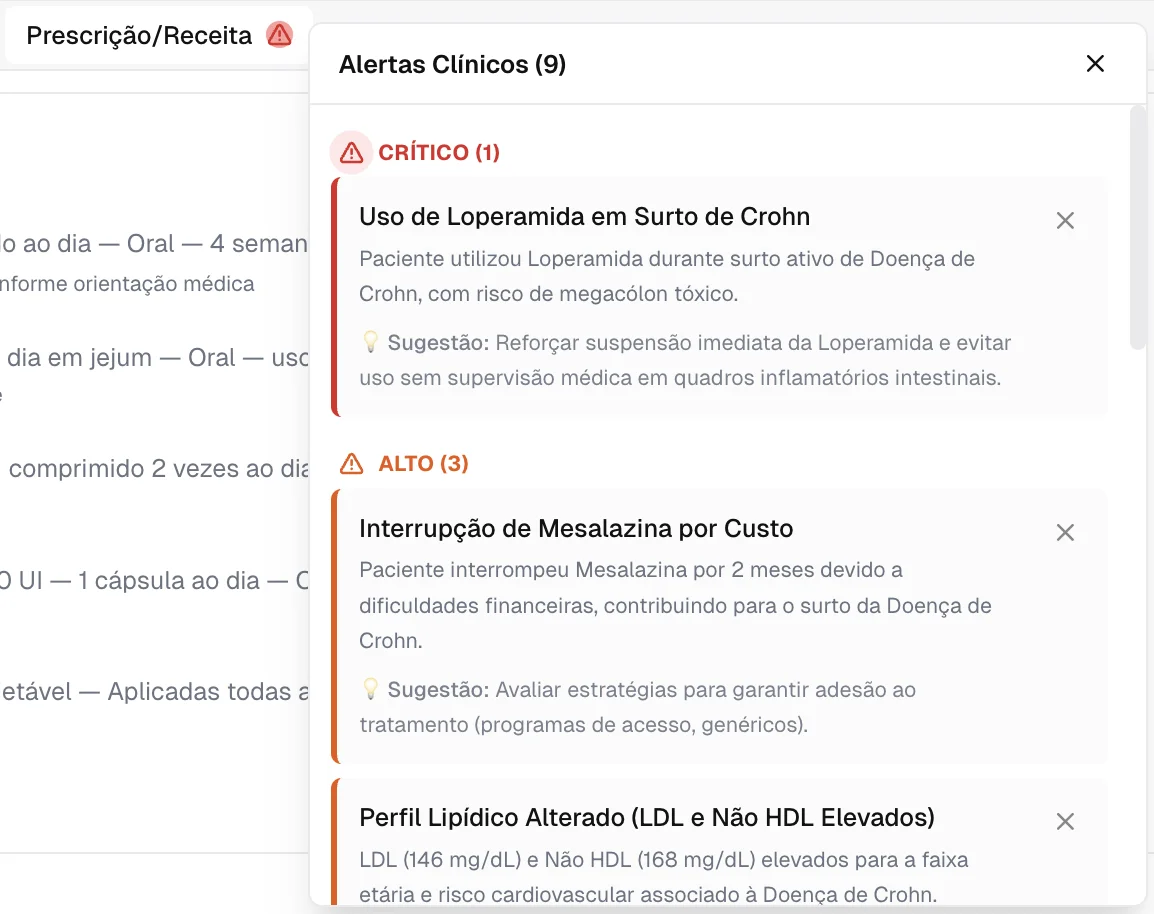
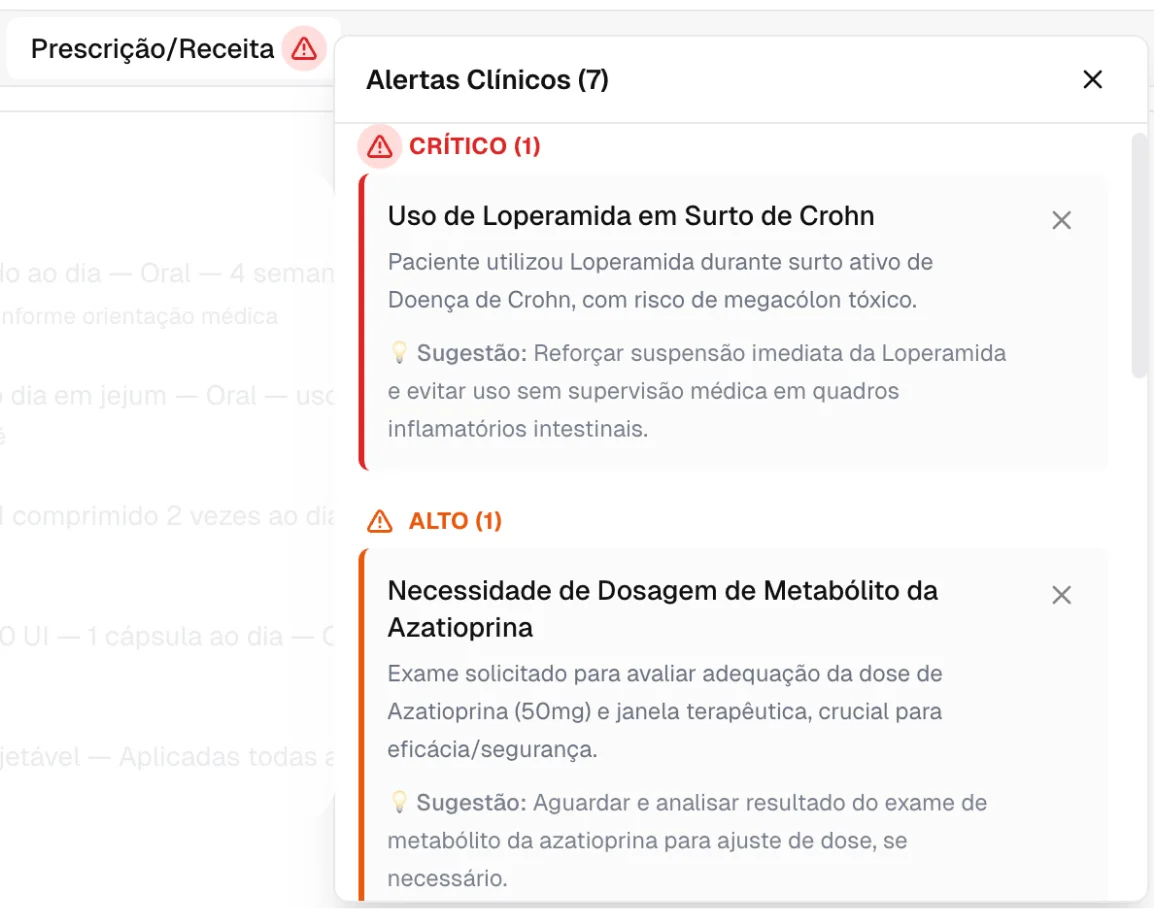
feat: finalize official landing page polish

diff --git a/src/app/page.tsx b/src/app/page.tsx
@@ -103,7 +103,7 @@ const features: Feature[] = [
     image: "/landing/screenshots/mobile-app-recording.webp",
     tag: "Apps mobile",
     badge: "Disponível",
-    alt: "Aplicativo MedWiser no celular mostrando gravação de consulta na interface mobile",
+    alt: "Aplicativo MedWiser no celular — telas de login, lista de consultas, gravação e sincronização",
     imageClass: "object-contain",
     featured: true,
   },
@@ -360,7 +360,7 @@ export default function Home() {
 
           {/* Featured cards — full width */}
           <RevealGroup
-            className="mt-12 flex flex-col gap-6 sm:gap-8"
+            className="mt-8 flex flex-col gap-4 sm:gap-6"
             stagger={0.07}
             delay={0.1}
           >
@@ -369,7 +369,7 @@ export default function Home() {
               .map((feature) => (
                 <RevealItem key={feature.title} variant="fade-up">
                   <div className="hover-lift flex flex-col overflow-hidden rounded-card border border-border/60 bg-card shadow-card lg:flex-row">
-                    <div className="flex flex-col justify-center p-6 sm:p-8 lg:w-1/2">
+                    <div className="flex flex-col justify-center p-5 sm:p-6 lg:w-3/5">
                       <div className="flex items-center gap-2">
                         <span className="text-xs font-semibold uppercase tracking-[0.2em] text-primary">
                           {feature.tag}
@@ -380,23 +380,23 @@ export default function Home() {
                           </span>
                         )}
                       </div>
-                      <h3 className="mt-4 font-display text-2xl font-semibold sm:text-3xl">
+                      <h3 className="mt-3 font-display text-xl font-semibold sm:text-2xl">
                         {feature.title}
                       </h3>
-                      <p className="mt-3 text-sm text-muted-foreground sm:text-base">
+                      <p className="mt-2 text-sm text-muted-foreground">
                         {feature.description}
                       </p>
                     </div>
                     {feature.image && (
-                      <div className="border-t border-border/60 bg-surface p-4 lg:w-1/2 lg:border-l lg:border-t-0">
-                        <div className="overflow-hidden rounded-xl">
+                      <div className="flex items-center justify-center border-t border-border/60 bg-surface p-3 lg:w-2/5 lg:border-l lg:border-t-0">
+                        <div className="flex items-center justify-center overflow-hidden rounded-xl">
                           <Image
                             src={feature.image}
                             alt={feature.alt ?? `${feature.title} — MedWiser`}
-                            width={1200}
-                            height={800}
-                            sizes="(max-width: 1024px) 100vw, 50vw"
-                            className={`h-auto w-full ${feature.imageClass ?? "object-cover"}`}
+                            width={800}
+                            height={533}
+                            sizes="(max-width: 1024px) 100vw, 40vw"
+                            className={`mx-auto max-h-[200px] w-auto ${feature.imageClass ?? "object-contain"}`}
                           />
                         </div>
                       </div>

diff --git a/src/components/landing/PricingSection.tsx b/src/components/landing/PricingSection.tsx
@@ -35,7 +35,6 @@ const features = [
 
 const monthlyPrice = 229;
 const yearlyPrice = 199;
-const yearlyTotal = yearlyPrice * 12;
 const savingsPercent = Math.round(
   ((monthlyPrice - yearlyPrice) / monthlyPrice) * 100,
 );
@@ -139,15 +138,15 @@ export function PricingSection() {
               </div>
             </div>
 
-            <div className="mt-6 text-center">
-              <div className="text-xs font-medium uppercase tracking-wider text-muted-foreground">
-                Depois
+            <div className="mt-4 text-center">
+              <div className="text-[11px] font-medium text-muted-foreground/70">
+                Após o teste gratuito
               </div>
-              <div className="mt-2 flex items-baseline justify-center gap-2">
+              <div className="mt-1 flex items-baseline justify-center gap-1.5">
                 <AnimatePresence mode="popLayout" initial={false}>
                   <motion.span
                     key={price}
-                    className="font-display text-4xl font-bold text-foreground sm:text-5xl"
+                    className="text-lg font-semibold text-muted-foreground"
                     initial={{ opacity: 0, filter: "blur(3px)", y: 4 }}
                     animate={{ opacity: 1, filter: "blur(0px)", y: 0 }}
                     exit={{ opacity: 0, filter: "blur(3px)", y: -4 }}
@@ -156,28 +155,14 @@ export function PricingSection() {
                     R$ {price}
                   </motion.span>
                 </AnimatePresence>
-                <span className="text-sm text-muted-foreground">/mês</span>
+                <span className="text-xs text-muted-foreground/60">/mês</span>
               </div>
-              <AnimatePresence mode="wait" initial={false}>
-                <motion.p
-                  key={billingCycle}
-                  className="mt-2 text-xs text-muted-foreground"
-                  initial={{ opacity: 0 }}
-                  animate={{ opacity: 1 }}
-                  exit={{ opacity: 0 }}
-                  transition={{ duration: 0.18, ease: EASE_OUT }}
-                >
-                  {billingCycle === "yearly"
-                    ? `R$ ${yearlyTotal.toLocaleString("pt-BR")} cobrados uma vez por ano`
-                    : "Cobrado mensalmente"}
-                </motion.p>
-              </AnimatePresence>
 
               <AnimatePresence initial={false}>
                 {billingCycle === "yearly" && (
                   <motion.div
                     key="yearly-savings"
-                    className="mt-3 inline-flex items-center gap-1.5 rounded-full bg-success/10 px-3 py-1 text-xs font-semibold text-success"
+                    className="mt-1.5 inline-flex items-center gap-1.5 rounded-full bg-success/10 px-3 py-1 text-xs font-semibold text-success"
                     initial={{ opacity: 0, scale: 0.95 }}
                     animate={{ opacity: 1, scale: 1 }}
                     exit={{ opacity: 0, scale: 0.95 }}

diff --git a/src/components/landing/HeroLoopV2.tsx b/src/components/landing/HeroLoopV2.tsx
@@ -100,19 +100,21 @@ export function HeroLoopV2() {
         : "Prescrição"
       : TAB_PER_BEAT[currentBeat];
 
-  // Reset docs sub-beat when entering docs beat
+  // Switch from atestado to prescricao while docs beat is active.
   useEffect(() => {
-    if (currentBeat === "docs") {
-      setDocsSubBeat("atestado");
-      const id = setTimeout(() => setDocsSubBeat("prescricao"), 3000);
-      return () => clearTimeout(id);
-    }
+    if (currentBeat !== "docs") return;
+    const id = setTimeout(() => setDocsSubBeat("prescricao"), 3000);
+    return () => clearTimeout(id);
   }, [currentBeat]);
 
   // Cycle beats with per-beat durations
   useEffect(() => {
     if (reduceMotion) return;
     const id = setTimeout(() => {
+      const nextBeat = BEAT_SEQUENCE[(beatIndex + 1) % BEAT_SEQUENCE.length];
+      if (nextBeat === "docs") {
+        setDocsSubBeat("atestado");
+      }
       setBeatIndex((i) => (i + 1) % BEAT_SEQUENCE.length);
     }, BEAT_DURATIONS[currentBeat]);
     return () => clearTimeout(id);
@@ -139,7 +141,7 @@ export function HeroLoopV2() {
         style={{ aspectRatio: "2036/1420" }}
       >
         <Header dateTime={dateTime} />
-        <Tabs activeTab={activeTab} beat={currentBeat} />
+        <Tabs activeTab={activeTab} />
 
         {/* Main content area */}
         <div className="relative min-h-0 flex-1 overflow-hidden">
@@ -221,7 +223,7 @@ function Header({ dateTime }: { dateTime: string }) {
 
 /* ───────────────────────── Tabs ───────────────────────── */
 
-function Tabs({ activeTab, beat }: { activeTab: string; beat: Beat }) {
+function Tabs({ activeTab }: { activeTab: string }) {
   return (
     <div className="flex items-center gap-0.5 border-b border-border bg-card px-3 sm:px-4">
       {TAB_LABELS.map((label) => {
@@ -381,7 +383,7 @@ function BeatInfo() {
         className="flex flex-wrap gap-1"
       >
         {["Atestado", "Prescrição/Receita", "Pedido de exames", "Anamnese Geral"].map(
-          (doc, i) => (
+          (doc) => (
             <span
               key={doc}
               className="inline-flex items-center gap-1 rounded-full border border-border bg-card px-2 py-0.5 text-[8px] font-medium text-muted-foreground"

diff --git a/src/components/landing/SocialProofBar.tsx b/src/components/landing/SocialProofBar.tsx
@@ -1,6 +1,6 @@
 "use client";
 
-import { useEffect, useRef, useState } from "react";
+import { useEffect, useRef, useSyncExternalStore } from "react";
 import {
   animate,
   motion,
@@ -65,16 +65,16 @@ function AnimatedStatValue({ stat }: { stat: Stat }) {
   const ref = useRef<HTMLSpanElement>(null);
   const inView = useInView(ref, { once: true, amount: 0.3 });
   const reduceMotion = useReducedMotion();
-  const [hydrated, setHydrated] = useState(false);
+  const hydrated = useSyncExternalStore(
+    () => () => {},
+    () => true,
+    () => false,
+  );
 
   const motionValue = useMotionValue(0);
   const display = useTransform(motionValue, (v) =>
     formatValue(v, stat.format),
   );
-
-  useEffect(() => {
-    setHydrated(true);
-  }, []);
 
   useEffect(() => {
     if (!inView || reduceMotion) return;
@@ -105,12 +105,15 @@ export function SocialProofBar() {
     >
       <div className="mx-auto max-w-6xl px-4 sm:px-6">
         <Reveal>
-          <div className="grid gap-6 sm:grid-cols-2 lg:grid-cols-3">
+          <div className="grid gap-8 sm:grid-cols-2 lg:grid-cols-3">
             {stats.map((stat) => {
               const Icon = stat.icon;
               return (
-                <div key={stat.label} className="flex items-center gap-4">
-                  <div className="flex h-12 w-12 shrink-0 items-center justify-center rounded-2xl bg-primary/10 text-primary">
+                <div
+                  key={stat.label}
+                  className="flex flex-col items-center gap-3 text-center"
+                >
+                  <div className="flex h-12 w-12 items-center justify-center rounded-2xl bg-primary/10 text-primary">
                     <Icon className="h-5 w-5" />
                   </div>
                   <div>

diff --git a/src/components/landing/SecuritySection.tsx b/src/components/landing/SecuritySection.tsx
@@ -9,22 +9,22 @@ const items = [
       "Seus dados e os dos seus pacientes protegidos de acordo com a Lei Geral de Proteção de Dados.",
   },
   {
-    icon: Lock,
-    title: "Criptografia ponta a ponta",
-    description:
-      "Toda comunicação entre você e a MedWiser é criptografada de ponta a ponta.",
-  },
-  {
     icon: MicOff,
     title: "Áudio nunca é salvo",
     description:
       "O áudio da consulta é processado em tempo real e descartado imediatamente. Nenhuma gravação é armazenada.",
   },
+  {
+    icon: Lock,
+    title: "Criptografia ponta a ponta",
+    description:
+      "Toda comunicação entre você e a MedWiser é criptografada de ponta a ponta.",
+  },
 ];
 
 export function SecuritySection() {
   return (
-    <section className="dark section relative overflow-hidden bg-background py-14 text-foreground sm:py-20 lg:py-24">
+    <section className="section relative overflow-hidden bg-surface py-14 sm:py-20 lg:py-24">
       <div className="pointer-events-none absolute inset-0 -z-10">
         <div className="absolute left-1/2 top-1/2 h-[500px] w-[500px] -translate-x-1/2 -translate-y-1/2 rounded-full bg-primary/10 blur-[120px]" />
         <div className="absolute inset-0 bg-noise opacity-30" />
@@ -58,7 +58,7 @@ export function SecuritySection() {
                   <h3 className="mt-4 font-display text-lg font-semibold">
                     {item.title}
                   </h3>
-                  <p className="mt-2 text-sm text-foreground/60">
+                  <p className="mt-2 text-sm text-muted-foreground">
                     {item.description}
                   </p>
                 </div>

diff --git a/src/components/landing/Header.tsx b/src/components/landing/Header.tsx
@@ -23,6 +23,7 @@ const EASE_OUT = [0.23, 1, 0.32, 1] as const;
 export function Header() {
   const [open, setOpen] = useState(false);
   const [scrolled, setScrolled] = useState(false);
+  const [forceDark, setForceDark] = useState(false);
   const reduceMotion = useReducedMotion();
 
   useEffect(() => {
@@ -30,6 +31,23 @@ export function Header() {
     onScroll();
     window.addEventListener("scroll", onScroll, { passive: true });
     return () => window.removeEventListener("scroll", onScroll);
+  }, []);
+
+  // Force dark mode on header while it overlaps a [data-dark-header] section
+  useEffect(() => {
+    const targets = document.querySelectorAll("[data-dark-header]");
+    if (!targets.length) return;
+
+    const observer = new IntersectionObserver(
+      (entries) => {
+        const any = entries.some((e) => e.isIntersecting);
+        setForceDark(any);
+      },
+      { rootMargin: "0px 0px -95% 0px", threshold: 0 },
+    );
+
+    targets.forEach((el) => observer.observe(el));
+    return () => observer.disconnect();
   }, []);
 
   useEffect(() => {
@@ -57,7 +75,7 @@ export function Header() {
   const closeMenu = () => setOpen(false);
 
   return (
-    <header className="sticky top-0 z-50">
+    <header className={`sticky top-0 z-50${forceDark ? " dark" : ""}`}>
       <div
         className={`backdrop-blur-sm transition-colors duration-200 ease-[cubic-bezier(0.23,1,0.32,1)] ${
           scrolled

diff --git a/src/components/landing/ConsultationStory.tsx b/src/components/landing/ConsultationStory.tsx
@@ -167,7 +167,8 @@ export function ConsultationStory() {
       ref={ref}
       id="solucao"
       aria-label="Como a MedWiser transforma uma consulta"
-      className="dark section relative bg-background text-foreground h-[340vh] lg:h-[420vh]"
+      data-dark-header
+      className="dark section relative bg-background text-foreground h-[300vh] lg:h-[360vh]"
     >
       <div className="sticky top-0 flex h-screen items-center justify-center overflow-hidden">
         {/* Background: grid + orbs + noise */}

diff --git a/src/components/landing/CopilotChat.tsx b/src/components/landing/CopilotChat.tsx
@@ -132,12 +132,6 @@ export function CopilotChat() {
     }
   }, [phase, visibleWords, inView, reduceMotion, totalWords]);
 
-  useEffect(() => {
-    if (phase === "idle") {
-      setVisibleWords(0);
-    }
-  }, [convIndex, phase]);
-
   const allWords = conversation.aiResponse.join(" ").split(" ");
   const shownText = allWords.slice(0, visibleWords).join(" ");
 
